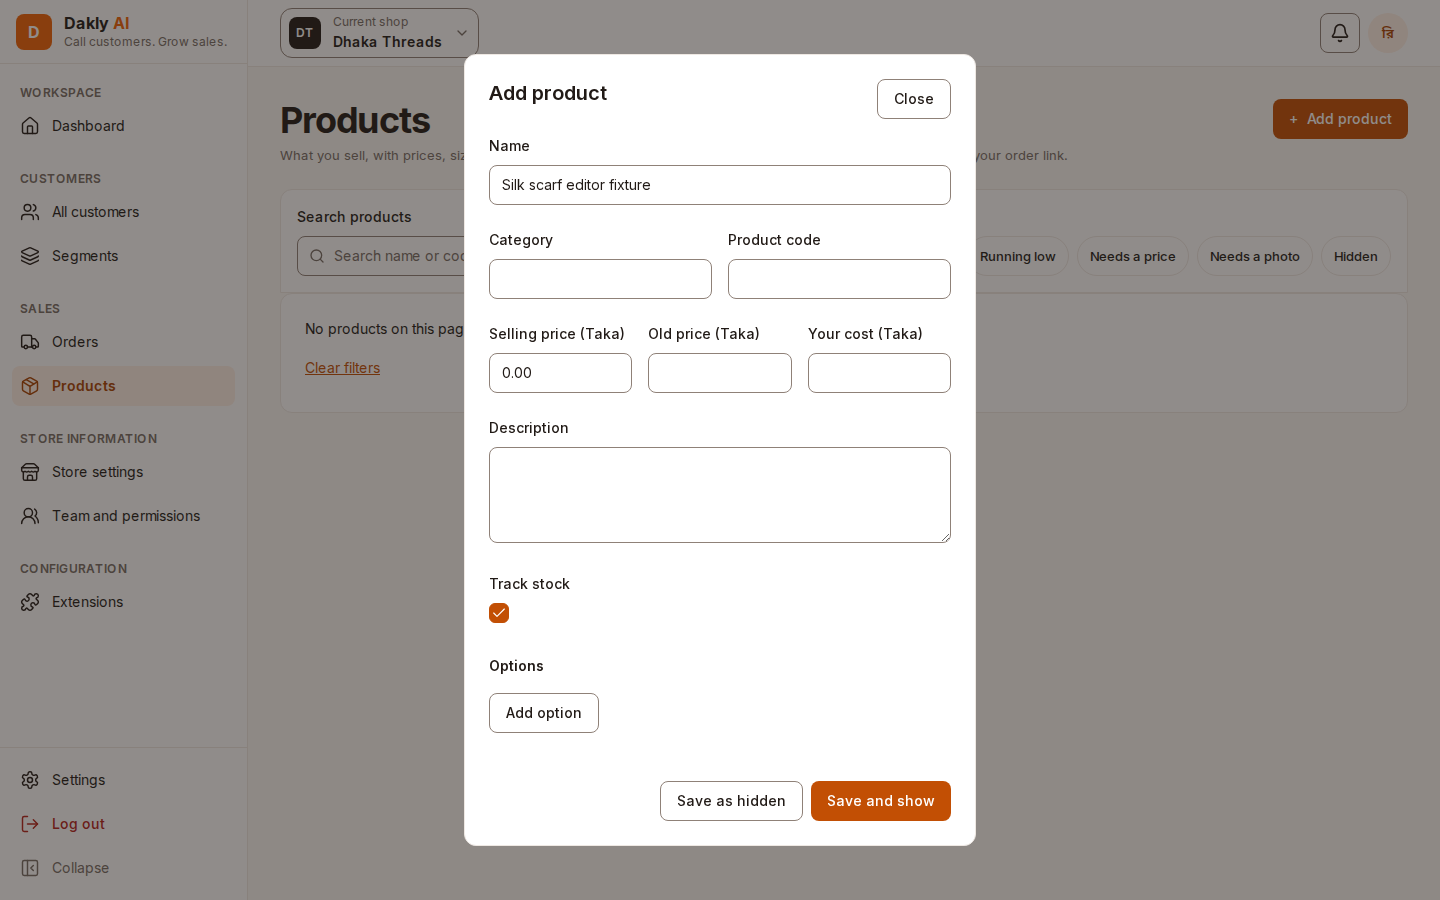
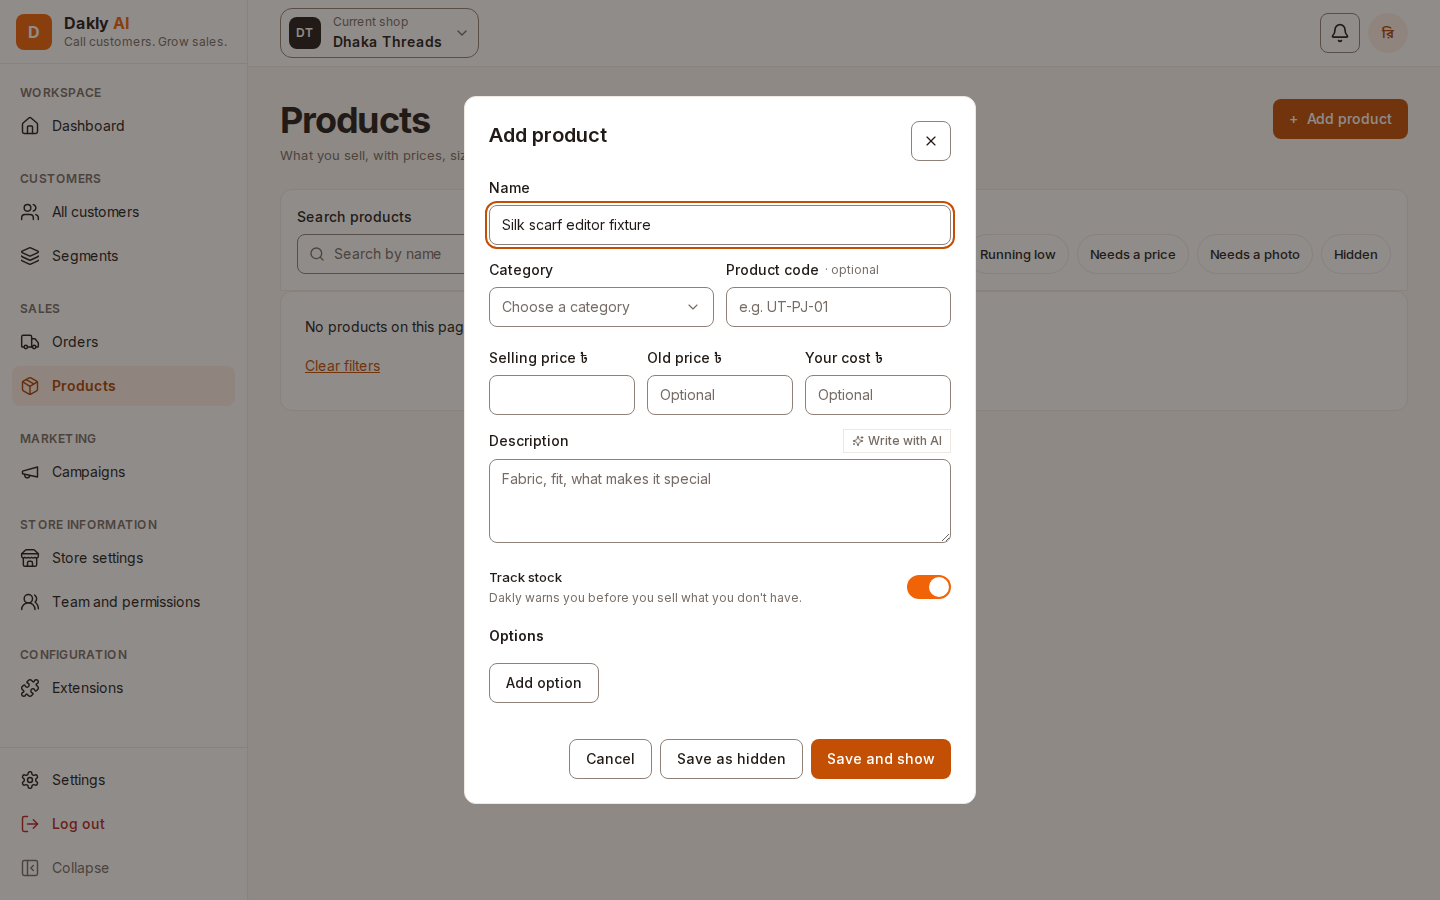
fix(web-7): address review feedback on add product modal
- drop withDefaultCost and pass input directly to create mutation
- simplify Switch props to id, checked, onCheckedChange and drop redundant label on Track stock
- revert blank lines and unnecessary use client directives
- autofocus Name input on modal open to prevent close button focus ring
- update evidence screenshots with name focus

diff --git a/packages/ui/src/switch.tsx b/packages/ui/src/switch.tsx
@@ -1,50 +1,28 @@
 'use client';
-import { cn } from './cn';
 
 export type SwitchProps = {
   id?: string;
-  checked: boolean;
-  disabled?: boolean;
-  className?: string;
-  'aria-label'?: string;
-  'aria-labelledby'?: string;
-  'aria-describedby'?: string;
+  checked?: boolean;
   onCheckedChange: (checked: boolean) => void;
 };
 
-export function Switch({
-  id,
-  checked,
-  disabled,
-  className,
-  'aria-label': ariaLabel,
-  'aria-labelledby': ariaLabelledby,
-  'aria-describedby': ariaDescribedby,
-  onCheckedChange,
-}: SwitchProps) {
+export function Switch({ id, checked = false, onCheckedChange }: SwitchProps) {
   return (
     <button
       id={id}
       type="button"
       role="switch"
       aria-checked={checked}
-      aria-label={ariaLabel}
-      aria-labelledby={ariaLabelledby}
-      aria-describedby={ariaDescribedby}
-      disabled={disabled}
       onClick={() => onCheckedChange(!checked)}
-      className={cn(
-        'relative inline-flex h-6 w-11 shrink-0 cursor-pointer rounded-full border-2 border-transparent transition-colors duration-200 ease-in-out focus:outline-none focus-visible:ring-2 focus-visible:ring-focus disabled:cursor-not-allowed disabled:opacity-50',
-        checked ? 'bg-primary' : 'border-border bg-surface-muted',
-        className,
-      )}
+      className={`relative inline-flex h-6 w-11 shrink-0 cursor-pointer rounded-full border-2 border-transparent transition-colors duration-200 ease-in-out focus:outline-none focus-visible:ring-2 focus-visible:ring-focus ${
+        checked ? 'bg-primary' : 'border-border bg-surface-muted'
+      }`}
     >
       <span
         aria-hidden="true"
-        className={cn(
-          'shadow pointer-events-none inline-block size-5 transform rounded-full bg-surface ring-0 transition duration-200 ease-in-out',
-          checked ? 'translate-x-5' : 'translate-x-0',
-        )}
+        className={`shadow pointer-events-none inline-block size-5 transform rounded-full bg-surface ring-0 transition duration-200 ease-in-out ${
+          checked ? 'translate-x-5' : 'translate-x-0'
+        }`}
       />
     </button>
   );

diff --git a/packages/ui/src/switch.spec.tsx b/packages/ui/src/switch.spec.tsx
@@ -10,10 +10,8 @@ describe('Switch', () => {
   it('renders switch with role and aria-checked', async () => {
     const user = userEvent.setup();
     const onCheckedChange = vi.fn();
-    render(
-      <Switch checked={false} aria-label="Toggle setting" onCheckedChange={onCheckedChange} />,
-    );
-    const toggle = screen.getByRole('switch', { name: 'Toggle setting' });
+    render(<Switch checked={false} onCheckedChange={onCheckedChange} />);
+    const toggle = screen.getByRole('switch');
     expect(toggle.getAttribute('aria-checked')).toBe('false');
 
     await user.click(toggle);
@@ -23,8 +21,8 @@ describe('Switch', () => {
   it('toggles from checked to unchecked on click', async () => {
     const user = userEvent.setup();
     const onCheckedChange = vi.fn();
-    render(<Switch checked={true} aria-label="Toggle setting" onCheckedChange={onCheckedChange} />);
-    const toggle = screen.getByRole('switch', { name: 'Toggle setting' });
+    render(<Switch checked={true} onCheckedChange={onCheckedChange} />);
+    const toggle = screen.getByRole('switch');
     expect(toggle.getAttribute('aria-checked')).toBe('true');
 
     await user.click(toggle);

diff --git a/packages/ui/src/dialog.tsx b/packages/ui/src/dialog.tsx
@@ -14,12 +14,10 @@ export type DialogProps = {
   onClose: () => void;
   children: ReactNode;
 };
-
 export function Dialog(props: DialogProps) {
   const { title, open, suspended = false, closeDisabled, className, onClose, children } = props;
   const element = useRef<HTMLDialogElement>(null);
   const titleId = useId();
-
   useEffect(() => {
     if (!open) return;
     const previous = document.activeElement as HTMLElement | null;
@@ -29,13 +27,11 @@ export function Dialog(props: DialogProps) {
       previous?.focus();
     };
   }, [open]);
-
   useEffect(() => {
     const dialog = element.current;
     if (open && !suspended) dialog?.showModal();
     else dialog?.close();
   }, [open, suspended]);
-
   return (
     <dialog
       ref={element}
@@ -69,7 +65,6 @@ export function Dialog(props: DialogProps) {
     </dialog>
   );
 }
-
 function trapFocus(event: KeyboardEvent<HTMLDialogElement>) {
   if (event.key !== 'Tab') return;
   const elements = Array.from(

diff --git a/apps/web/src/features/products/components/product-form.tsx b/apps/web/src/features/products/components/product-form.tsx
@@ -47,7 +47,7 @@ export function ProductForm({ product, onSaved, onCancel }: ProductFormProps) {
               }),
           };
           if (product) change.mutate(productChanges(input, dirtyFields), callbacks);
-          else create.mutate(withDefaultCost(input), callbacks);
+          else create.mutate(input, callbacks);
         })}
       >
         <ProductFields productId={product?.id} />
@@ -165,13 +165,4 @@ function productErrorField(
 ): 'root.server' | 'variants' | 'variants.0.sku' {
   if (!(error instanceof ApiError) || error.code !== 'PRODUCT_SKU_TAKEN') return 'root.server';
   return variantCount === 1 ? 'variants.0.sku' : 'variants';
-}
-
-function withDefaultCost(input: ProductFormInput): ProductFormInput {
-  const baseCost = input.variants[0]?.costPoisha;
-  if (!baseCost) return input;
-  return {
-    ...input,
-    variants: input.variants.map((v) => ({ ...v, costPoisha: v.costPoisha || baseCost })),
-  };
 }

diff --git a/apps/web/src/features/products/components/product-input-field.tsx b/apps/web/src/features/products/components/product-input-field.tsx
@@ -1,4 +1,3 @@
-'use client';
 import { useFormContext, type FieldPath } from 'react-hook-form';
 
 import type { ProductFormValues } from '@dakly/contracts/products';
@@ -10,15 +9,23 @@ type ProductInputFieldProps = {
   label: string;
   placeholder?: string;
   optional?: boolean;
+  autoFocus?: boolean;
 };
 
-export function ProductInputField({ name, label, placeholder, optional }: ProductInputFieldProps) {
+export function ProductInputField({
+  name,
+  label,
+  placeholder,
+  optional,
+  autoFocus,
+}: ProductInputFieldProps) {
   const { register } = useFormContext<ProductFormValues>();
   return (
     <FormField name={name} label={label} optional={optional}>
       {(control) => (
         <Input
           {...control}
+          autoFocus={autoFocus}
           placeholder={placeholder}
           inputMode={name.endsWith('Poisha') ? 'decimal' : undefined}
           {...register(name)}

diff --git a/apps/web/src/features/products/components/product-fields.tsx b/apps/web/src/features/products/components/product-fields.tsx
@@ -15,17 +15,19 @@ const extraFlags = [
   ['isVisibleInChats', 'Show in chat replies'],
   ['isVisibleInOrderLink', 'Show in the order link'],
 ] as const;
-
 type ProductFieldsProps = { productId?: string };
-
 export function ProductFields({ productId }: ProductFieldsProps) {
   const form = useFormContext<ProductFormValues>();
   const simple = !form.watch('options')?.length && form.watch('variants')?.length === 1;
   const showSkuAndCost = !productId || simple;
-
   return (
     <>
-      <ProductInputField name="name" label="Name" placeholder="e.g. Cotton Panjabi" />
+      <ProductInputField
+        name="name"
+        label="Name"
+        placeholder="e.g. Cotton Panjabi"
+        autoFocus={!productId}
+      />
       <div className="grid gap-3 md:grid-cols-2">
         <ProductCategoryField />
         {showSkuAndCost ? (

diff --git a/apps/web/src/features/products/components/product-track-stock.tsx b/apps/web/src/features/products/components/product-track-stock.tsx
@@ -9,7 +9,6 @@ import { Switch } from '@dakly/ui/switch';
 export function ProductTrackStock() {
   const { field } = useController<ProductFormValues, 'isStockTracked'>({ name: 'isStockTracked' });
   const id = useId();
-  const checked = Boolean(field.value);
 
   return (
     <div className="flex items-center justify-between gap-4 py-1">
@@ -21,12 +20,7 @@ export function ProductTrackStock() {
           Dakly warns you before you sell what you don't have.
         </p>
       </div>
-      <Switch
-        id={id}
-        checked={checked}
-        aria-label="Track stock"
-        onCheckedChange={(next) => field.onChange(next)}
-      />
+      <Switch id={id} checked={field.value} onCheckedChange={field.onChange} />
     </div>
   );
 }

diff --git a/apps/web/e2e/product-editor.spec.ts b/apps/web/e2e/product-editor.spec.ts
@@ -46,7 +46,6 @@ test('saves unfinished products, edits variants without losing stock and manages
       await dialog.evaluate((element) => {
         element.scrollTop = 0;
       });
-      await dialog.getByRole('button', { name: /Close/ }).first().focus();
       await page.mouse.move(width - 1, height - 1);
       await expect
         .poll(() => page.evaluate(() => document.documentElement.scrollWidth <= innerWidth))

diff --git a/apps/web/src/features/products/components/products-screen.tsx b/apps/web/src/features/products/components/products-screen.tsx
@@ -87,7 +87,6 @@ type SelectedStockAdjustmentProps = {
   variantId?: string;
   onClose: () => void;
 };
-
 function SelectedStockAdjustment({ products, variantId, onClose }: SelectedStockAdjustmentProps) {
   if (!variantId || !products) return null;
   const product = products.items.find((item) =>

diff --git a/apps/web/src/features/products/components/product-description-field.tsx b/apps/web/src/features/products/components/product-description-field.tsx
@@ -1,4 +1,3 @@
-'use client';
 import { Sparkles } from 'lucide-react';
 import { useId, useState } from 'react';
 import { useController, useFormContext } from 'react-hook-form';
